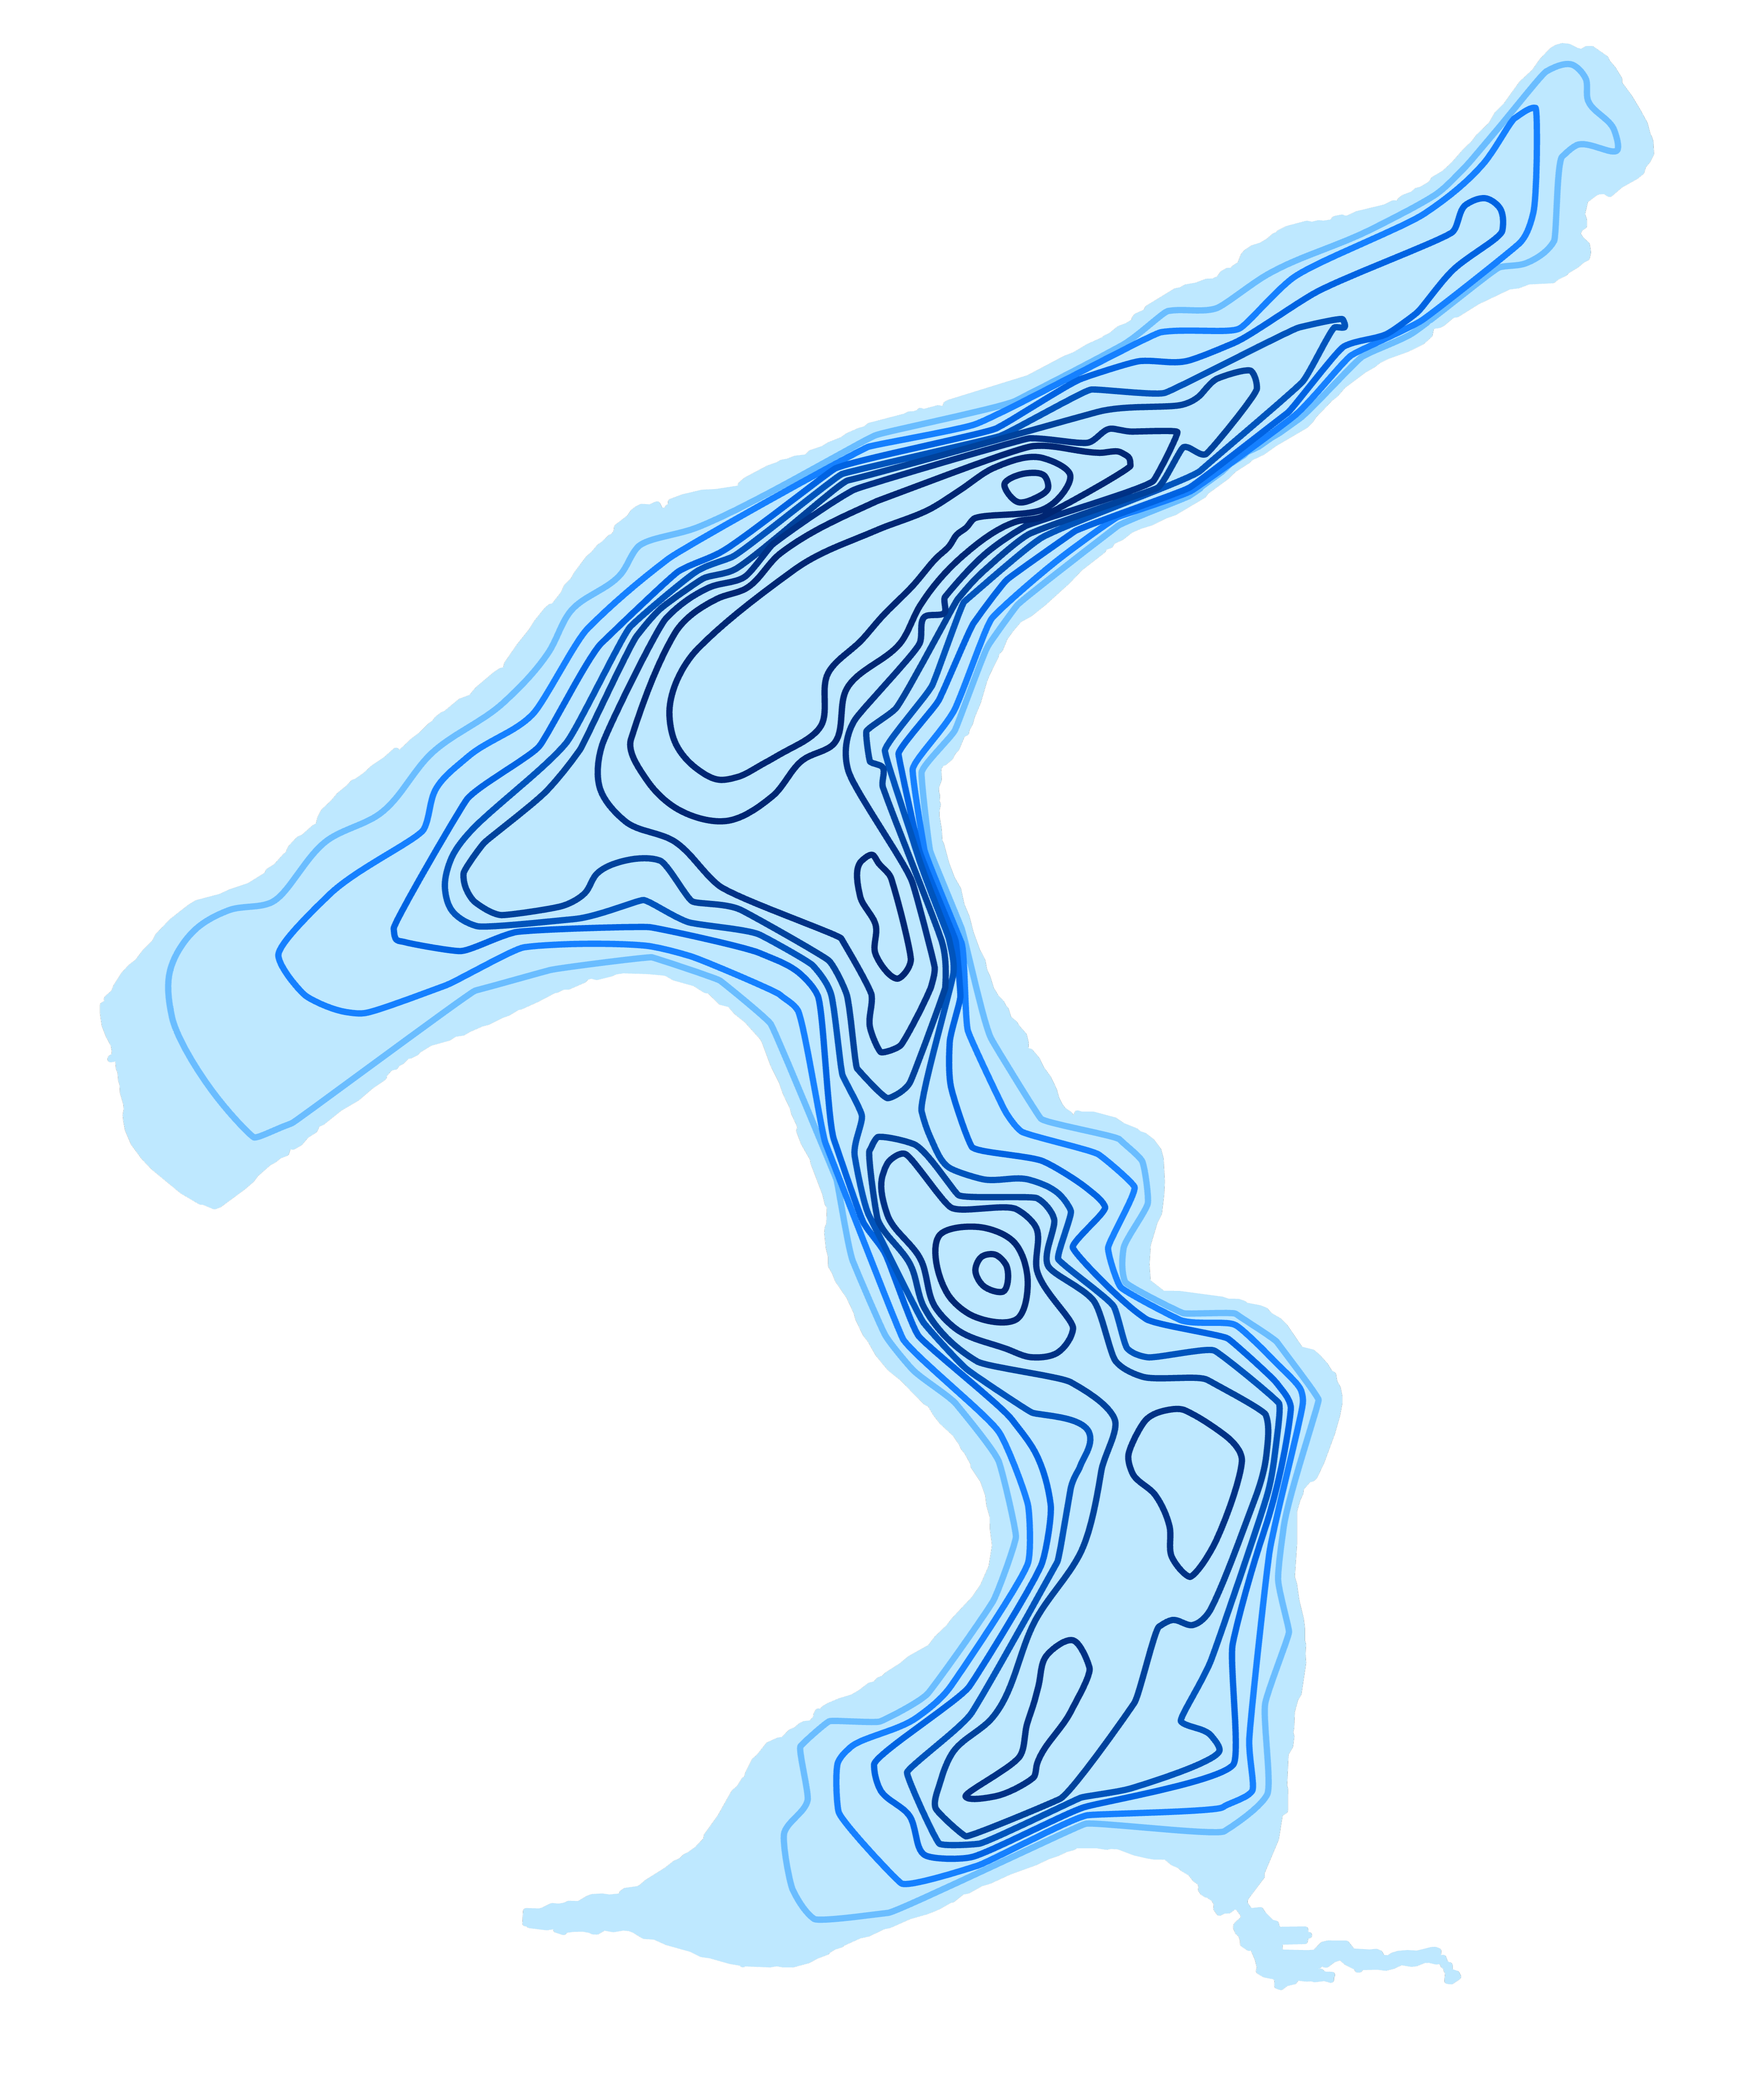
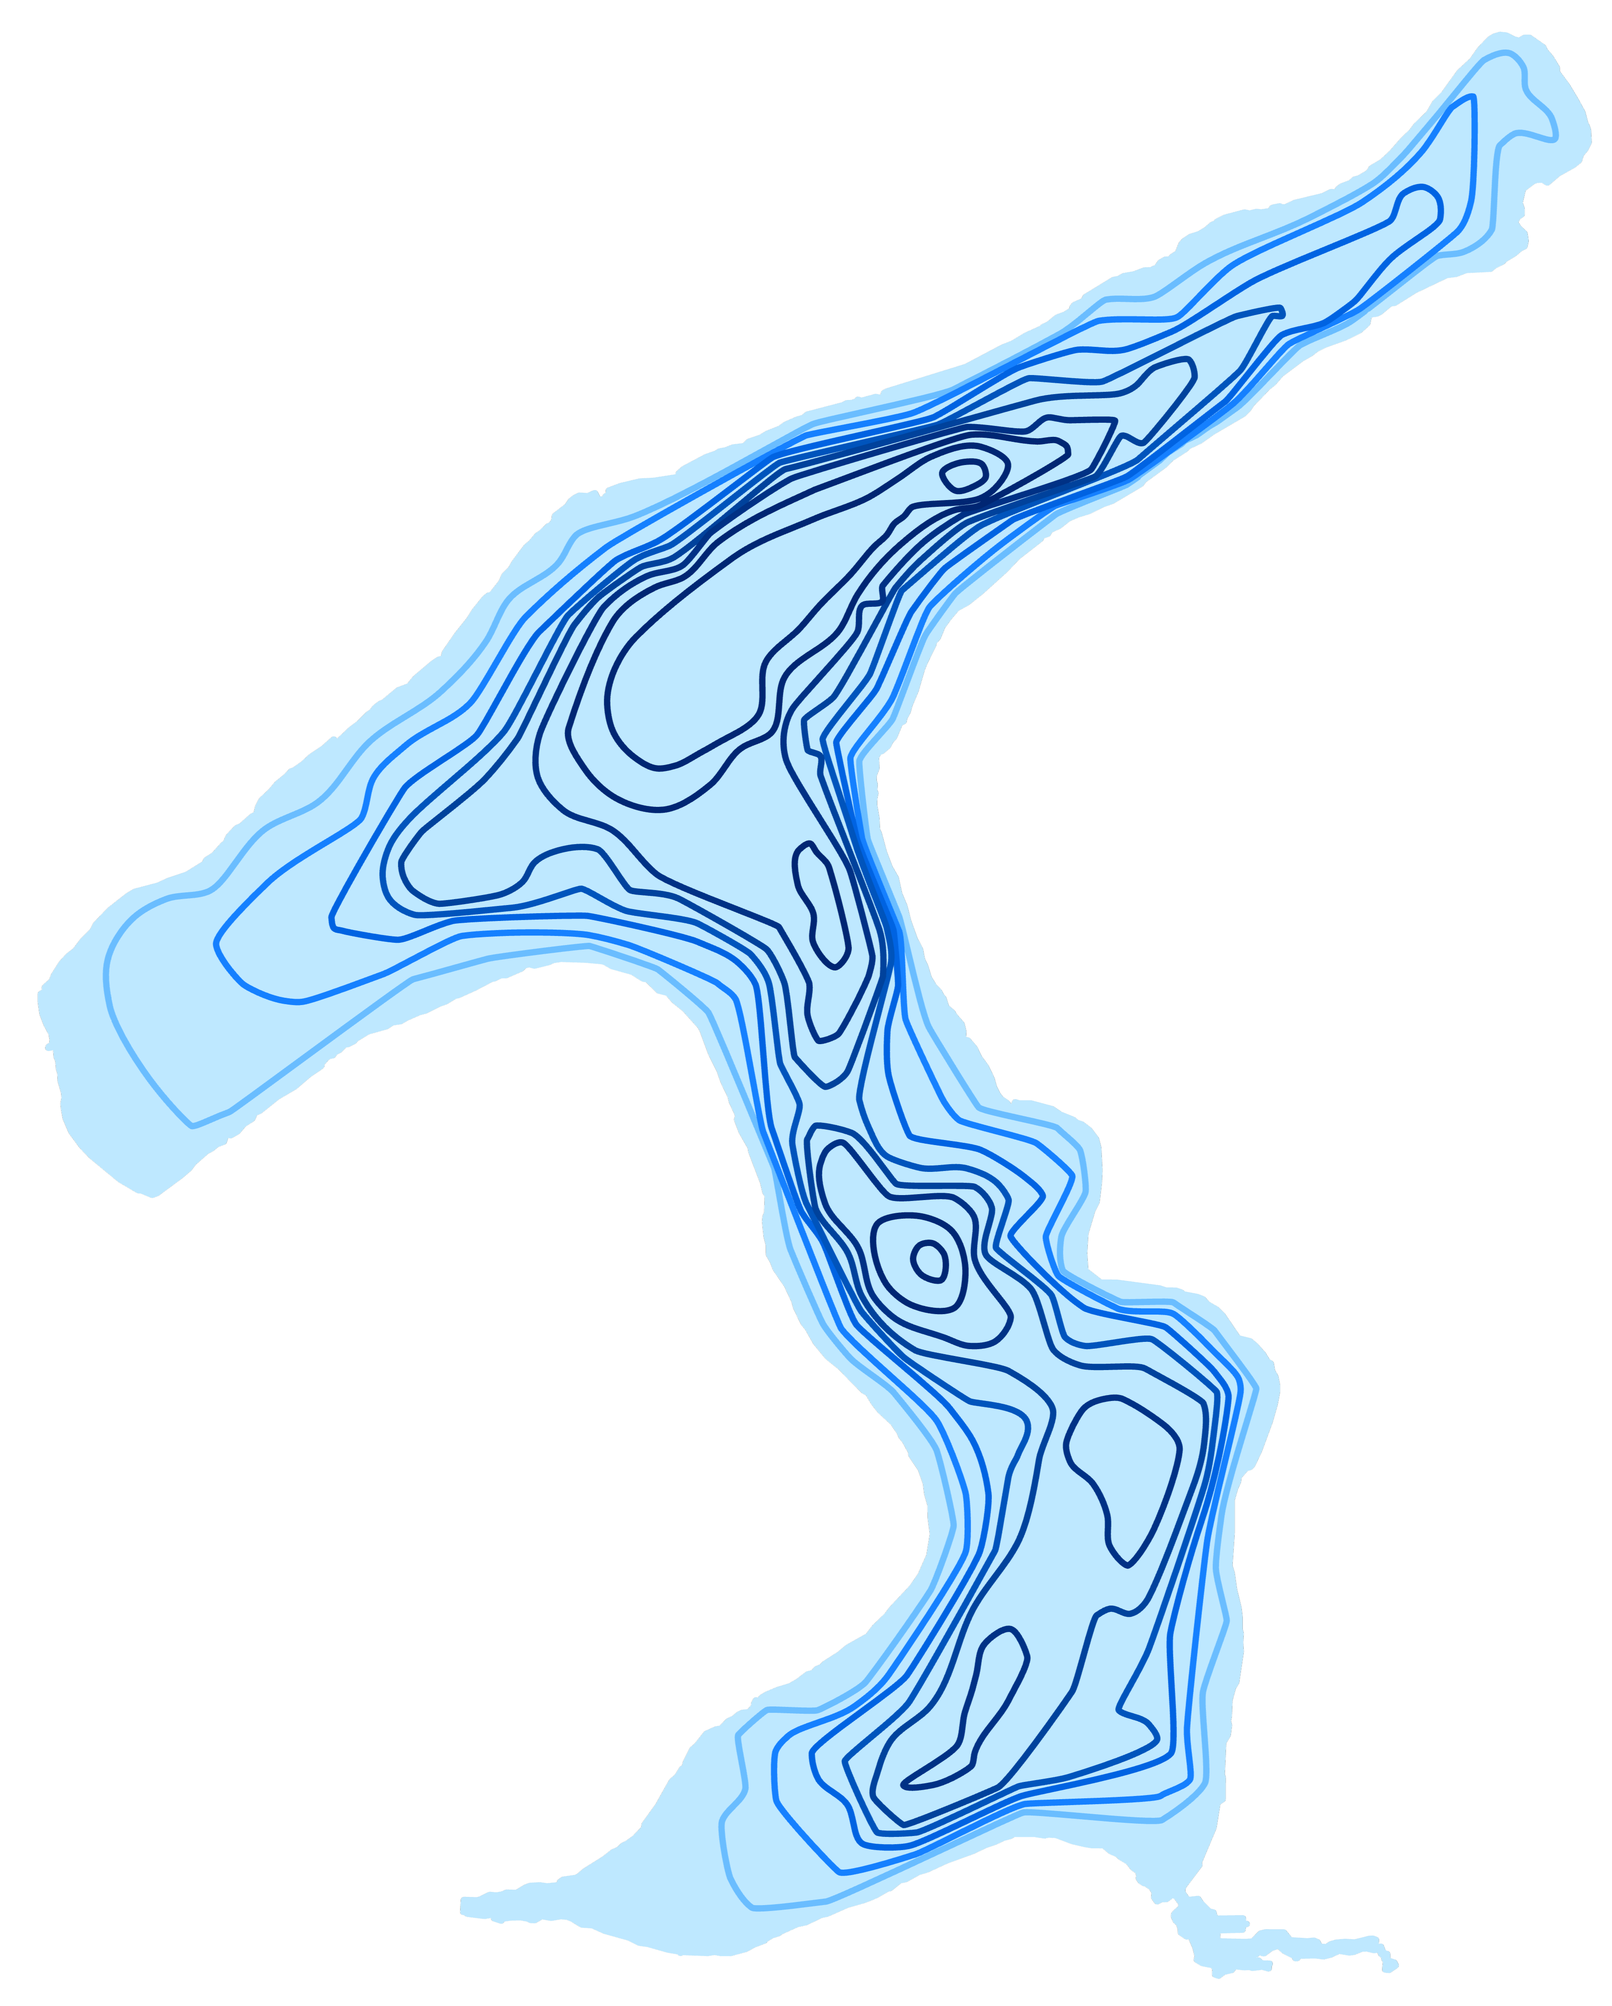
researchpage-v0.6

Changed region(s): [[0.0, 0.0, 0.9927, 0.9934]]

diff --git a/research.html b/research.html
@@ -65,7 +65,8 @@ mediating microplastic–organism interactions across aquatic communities that u
 
 <h2><span style="font-size: 40px;">🦉</span>Documenting Northern Saw-Whet Owls Breeding in Atypical Mixed-Deciduous Forest.</h2>
 
-<img src="/assets/images/nswo.png" alt="lake" style="float:right; width: 550px; margin: 0 0 1rem 1rem;">
+<img src="/assets/images/nswo.png" alt="owl" style="float:right; width: 550px; margin: 0 0 1rem 1rem;">
+
 Aegolius acadicus (Northern Saw-whet Owl) is an ecologically important, nocturnal, cryptic species that utilizes forests in Pennsylvania for 
 stopover habitat, wintering, and breeding. The extent to which this species nests in the mixed-deciduous forests of northeastern 
 Pennsylvania is uncertain. We used passive acoustic monitoring (PAM) and audio playbacks throughout a reclaimed state park in northeastern PA to 
@@ -74,3 +75,15 @@ during the early nesting period, and playback surveys produced an additional 2 a
 detected 2 fledglings in the post-nesting period of the breeding season. We found a positive association between vocalization rates and canopy cover. 
 Our results suggest that Saw-whet Owls are nesting in Pennsylvnaia habitat that is considered atypical for this species and their range. This 
 research adds to a growing body of research that Saw-whet Owls have more breeding plasticity than originally believed.
+
+
+<h2><span style="font-size: 40px;">🦉</span>Abundant Natural Cavities in a Deciduous Forest Leads to a Lack of Nest-Box
+Occupancy by Northern Saw-Whet Owls.</h2>
+
+<img src="/assets/images/nestbox.png" alt="box" style="float:right; width: 550px; margin: 0 0 1rem 1rem;">
+Nest boxes are commonly used for species that utilize tree cavities, including small owls. We checked boxes set out for Northern Saw-whet Owls
+after a hiatus of 8 years and found 3 rodent nests, but no evidence of owl usage. Playbacks revealed owls were present at 8 of 11 
+boxes checked. Cavity surveys yielded an average of 7.7 large cavities within 50 m of each box; extrapolation of cavity 
+densities to a minimal territory size of 150 ha suggested that suitable cavities are an abundant, non-limiting resource here. 
+Cavity abundance was likely a consequence of beech bark disease complex having recently top-killed most large American Beech trees 
+locally, providing abundant resources for excavating woodpeckers. 
